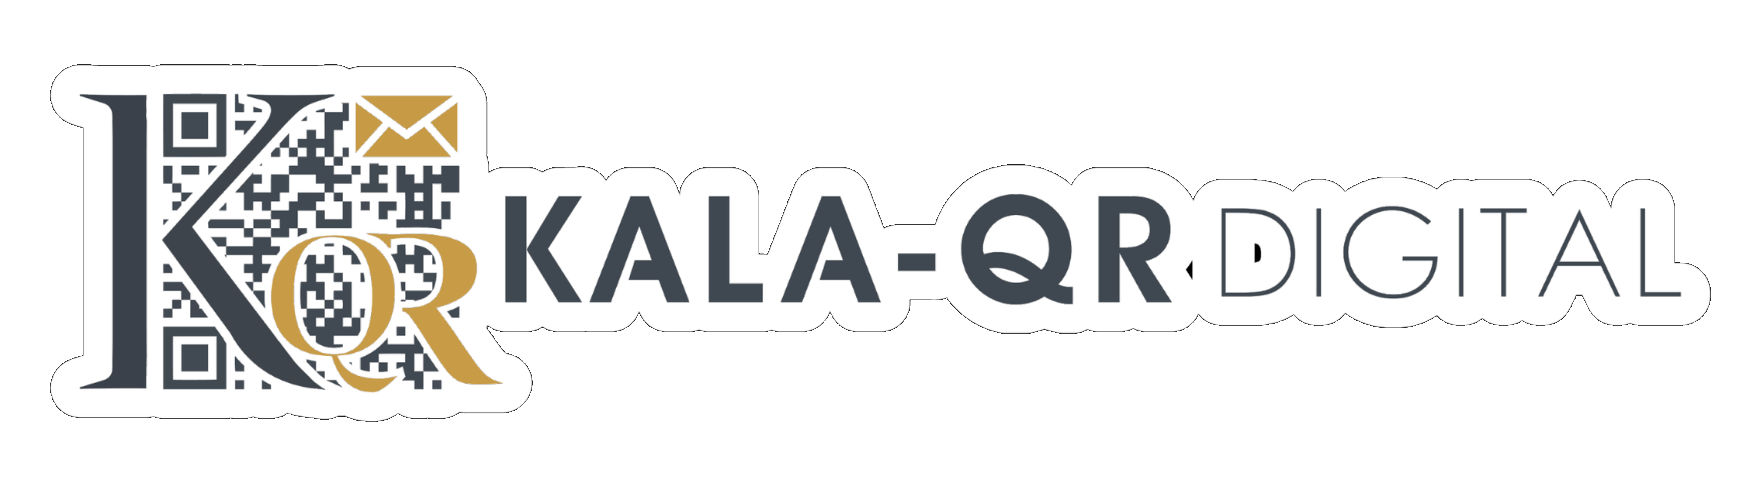
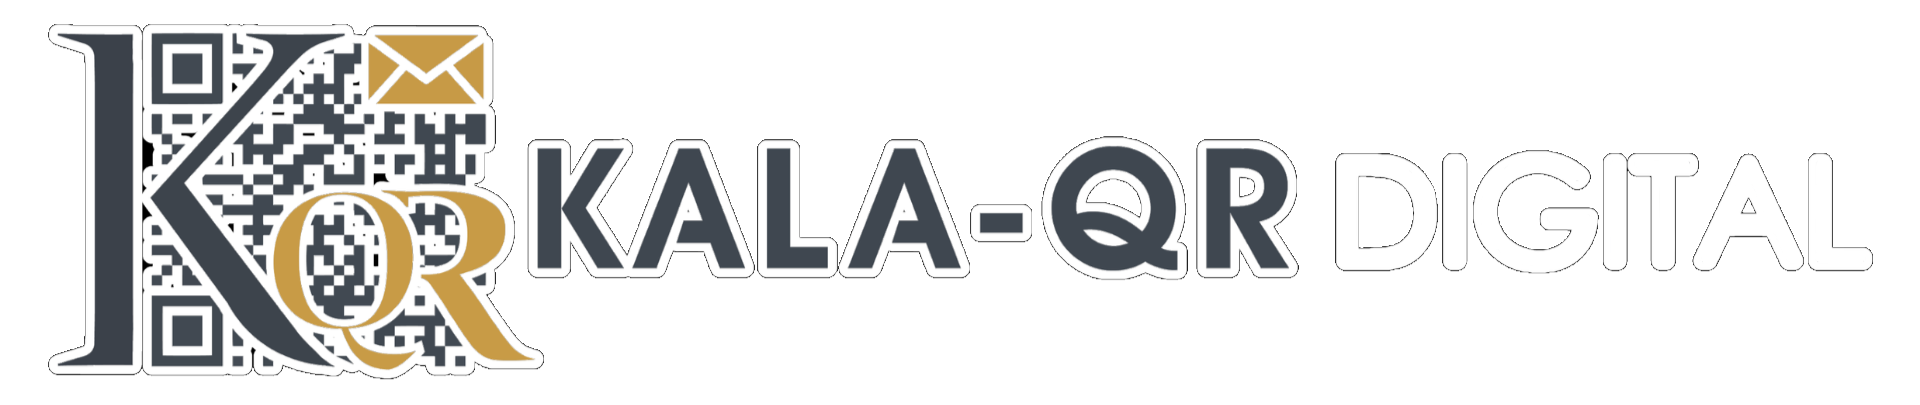
onehundred forty six

Changed region(s): [[0.0308, 0.0593, 0.9841, 0.9481]]

diff --git a/index.html b/index.html
@@ -133,7 +133,7 @@
     <!--</nav>-->
  <div class=" barra2" style="margin:0 auto; margin-top: 50px;">
         <div class="row justify-content-center" >
-            <img class="col-7 col-md-3 mt-4" src="img/kala.png" >
+            <img class="col-7 col-md-3 mt-4" style="filter: drop-shadow(5px 5px 10px #000000);" src="img/kala.png" >
             <br><br>
         </div>
     </div>
@@ -164,7 +164,7 @@ background: linear-gradient(0deg,rgba(59, 65, 74, 1) 0%, rgba(59, 65, 74, 1) 50%
                         <h1 aria-label="Hi! I'm a developer"class="col-12">
   Invitaciones&nbsp;<span class="typewriter thick"></span>
 </h1>
-                        <h6  class=" text-center col-11 text-md-left pt-3 mr-2 text-white" style="font-family: 'Montserrat', sans-serif; font-size: 14px; z-index: 99999999;">La información de tu evento en un solo lugar, ahorra tiempo, dinero y sorprende a tus invitados con nuestros diseños, todo por 1 solo precio.</h6>
+                        <h6  class=" text-center col-11 text-md-left pt-3 mr-2 text-white" style="font-family: 'Montserrat', sans-serif; font-size: 14px; ">La información de tu evento en un solo lugar, ahorra tiempo, dinero y sorprende a tus invitados con nuestros diseños, todo por 1 solo precio.</h6>
                     </div>
 
         <div class="col-12" style="background: #3B414A; margin-top:-250px; background: #3B414A;

diff --git a/css/styles.css b/css/styles.css
@@ -1865,7 +1865,7 @@ font-family: "Montserrat", sans-serif;
   color: #fff;
   text-align: center;
 text-shadow: 0px 1px 10px rgba(0,0,0,0.4);
-  z-index: 9999;
+  z-index: 1;
 }
 
 /* Typewriter effect 1 */
